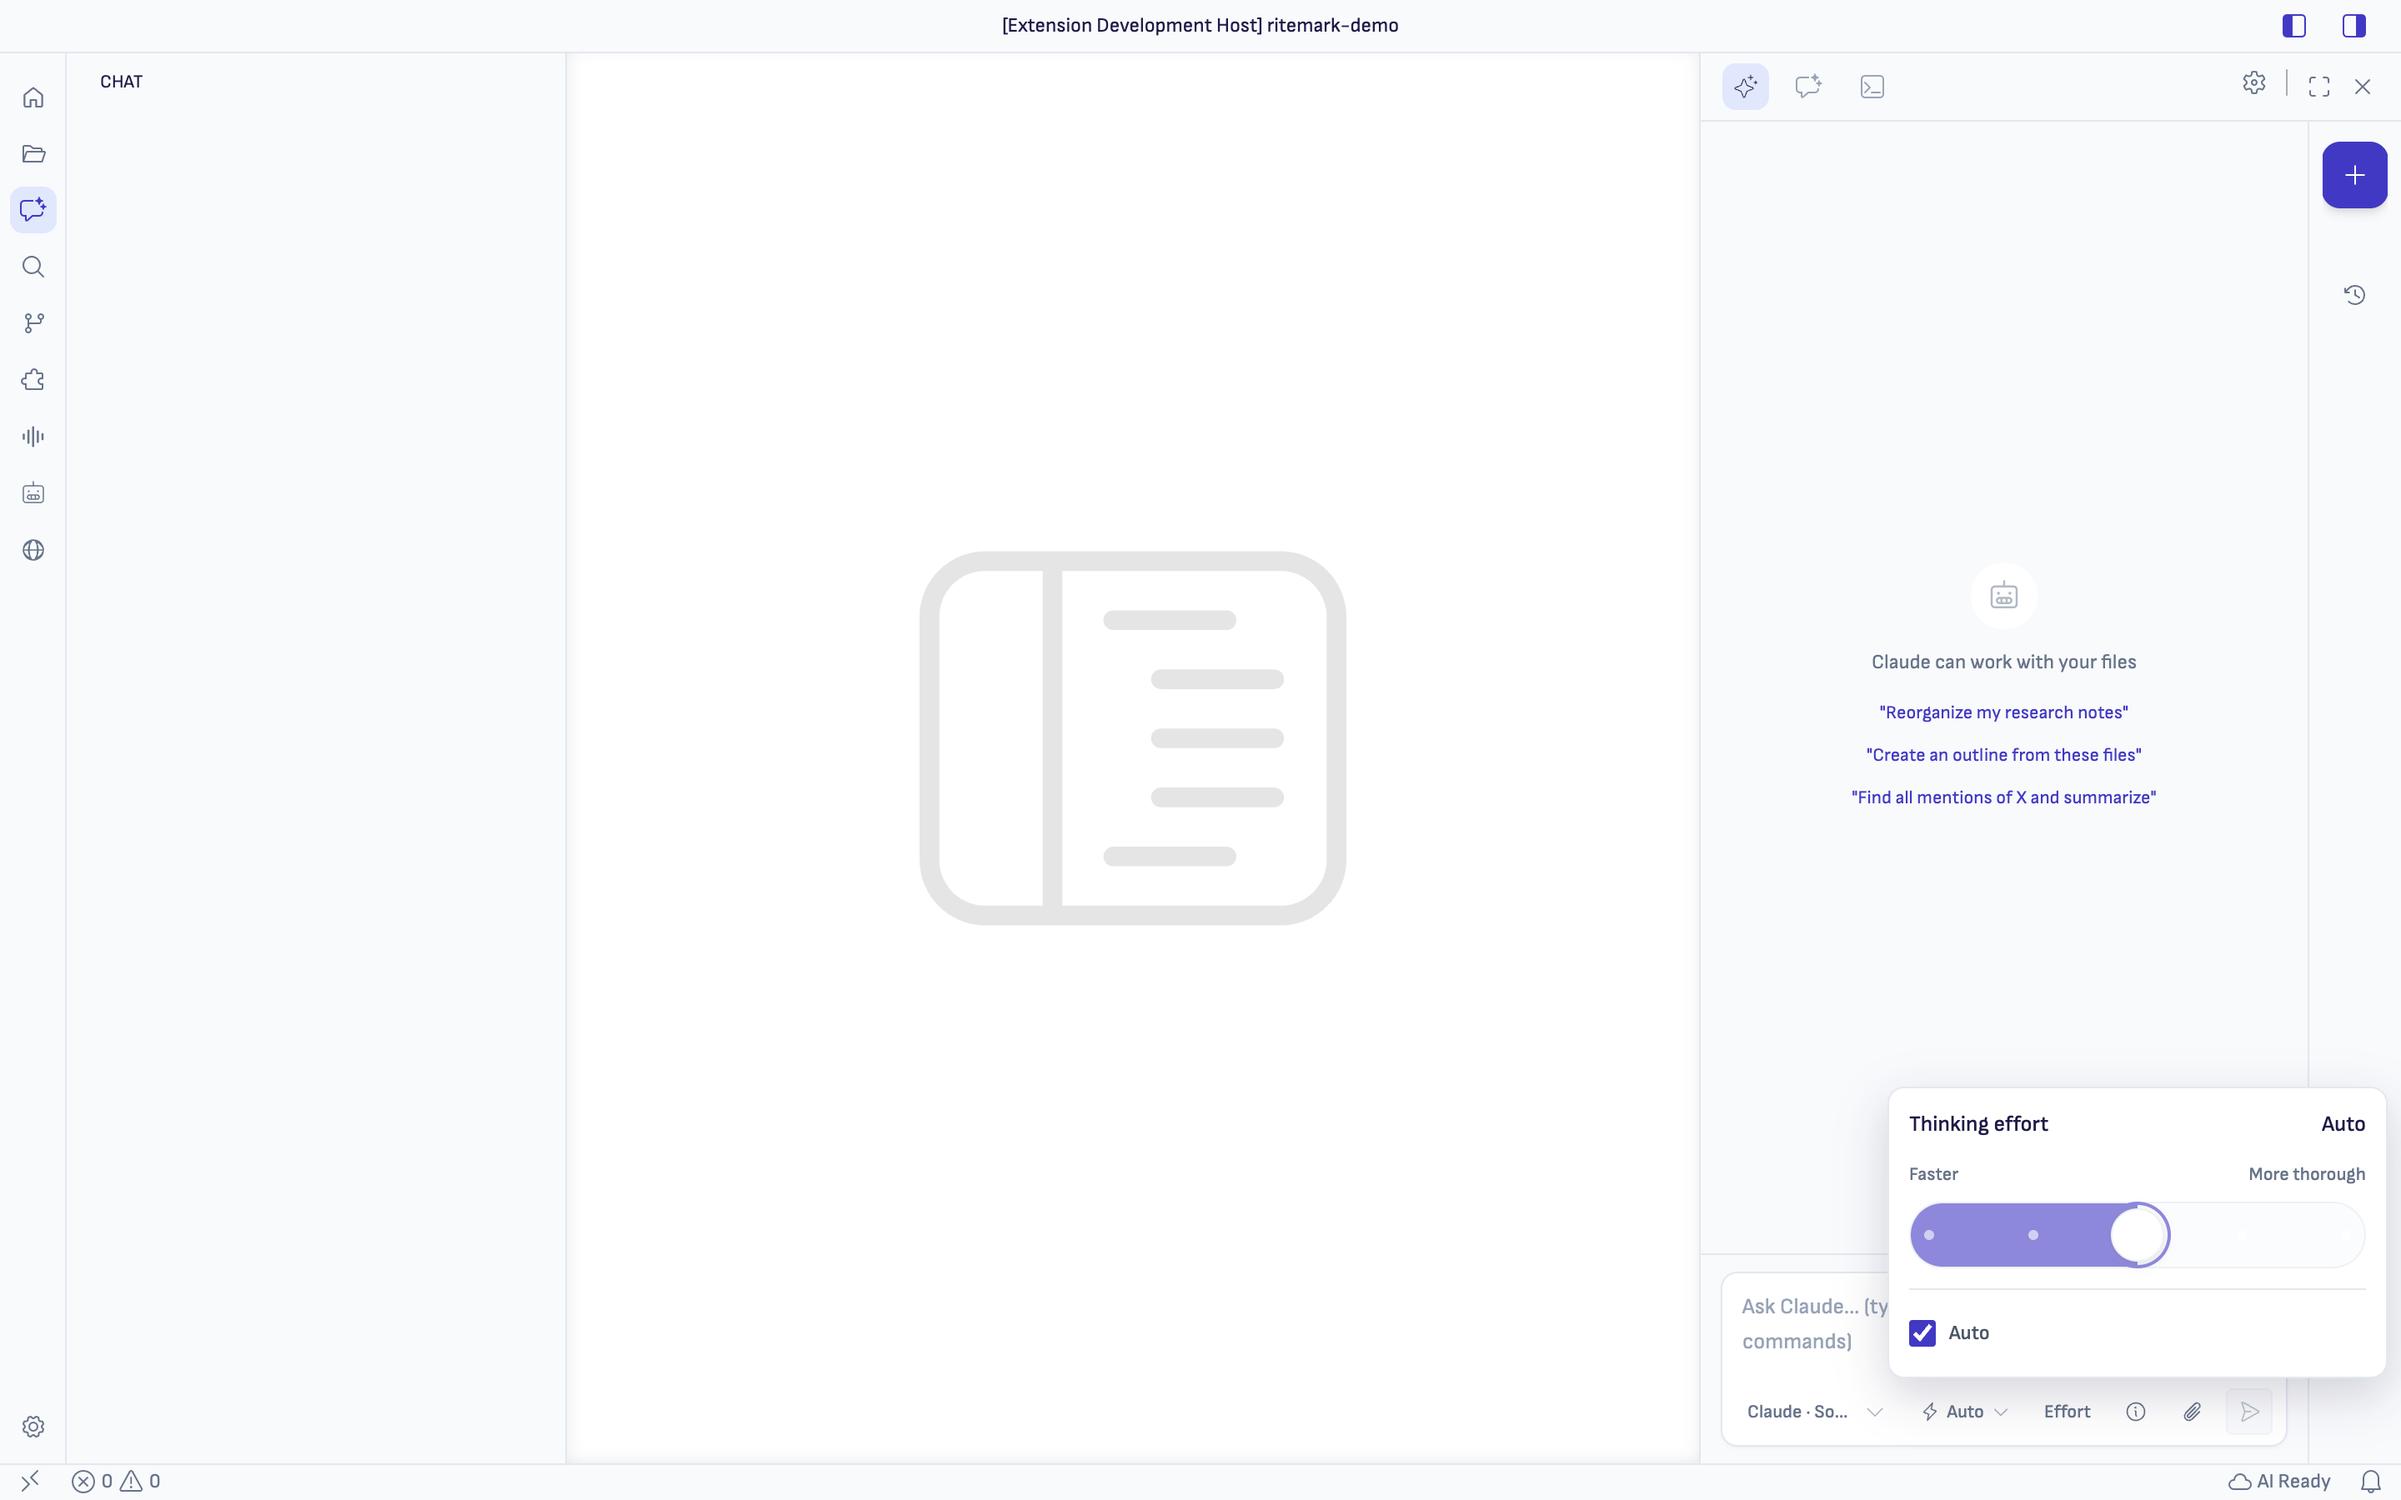
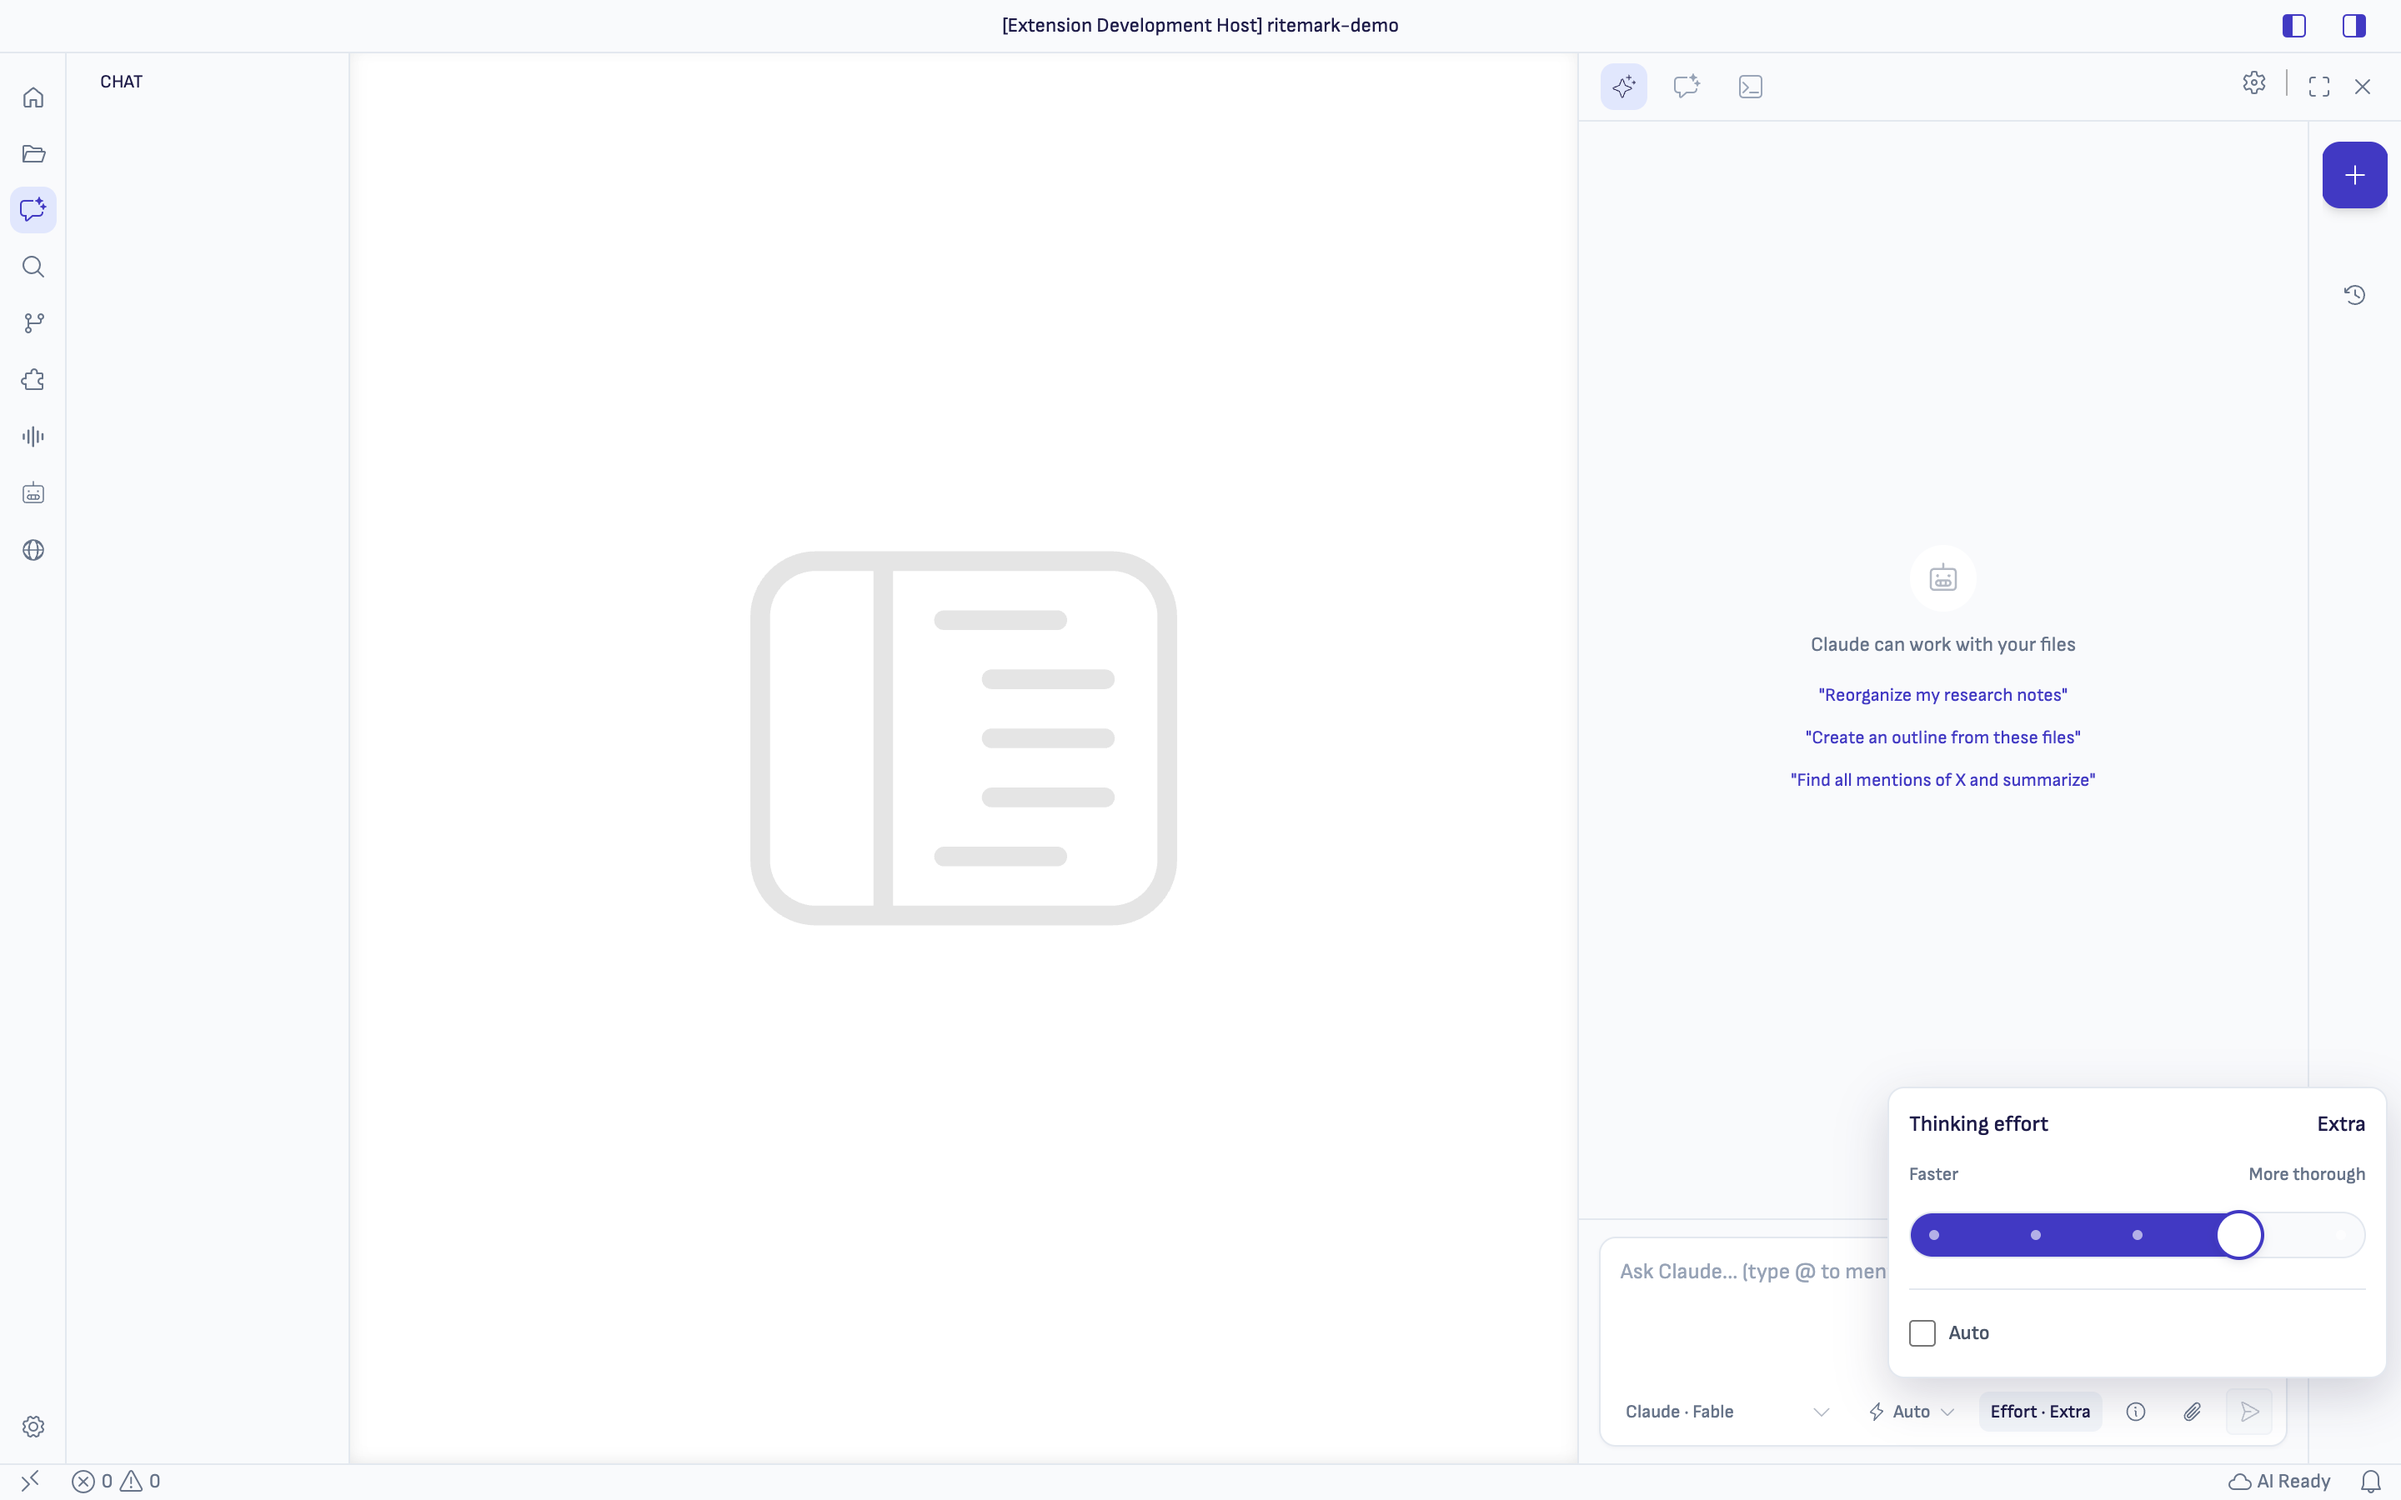
docs: record final thinking effort polish

diff --git a/docs/development/releases/v1.10.0/release-plan.md b/docs/development/releases/v1.10.0/release-plan.md
@@ -1,6 +1,6 @@
 # Release Plan — v1.10.0 Durable Agent Conversations
 
-**Status:** In development — Sprints 109–111 are merged; Sprint 111 refreshed and verified the exact Claude, Codex, OpenCode, and protocol SDK pins through [PR #214](https://github.com/ProductoryHQ/ritemark-native/pull/214); Sprint 112 implementation, approved RunDev design validation, focused regression matrix, code review, and official QA are complete; native Windows remains at the v1.10 candidate gate<br>
+**Status:** In development — Sprints 109–111 are merged; Sprint 111 refreshed and verified the exact Claude, Codex, OpenCode, and protocol SDK pins through [PR #214](https://github.com/ProductoryHQ/ritemark-native/pull/214); Sprint 112 implementation, approved RunDev design validation, focused regression matrix, and official QA are complete, with final endpoint polish in [PR #220](https://github.com/ProductoryHQ/ritemark-native/pull/220) review; native Windows remains at the v1.10 candidate gate<br>
 **Target:** v1.10.0<br>
 **GitHub milestone:** [v1.10.0](https://github.com/ProductoryHQ/ritemark-native/milestone/8) — created 2026-08-21<br>
 **Release type:** Full app distribution with extension-scoped implementation; deliberately not an `1.9.0-ext.N` lane<br>
@@ -74,7 +74,7 @@ The release does not ship after the persistence sprint alone. Sprint 109 establi
 | [Sprint 109 — Durable Chat History](./sprint-109-durable-chat-history/sprint-plan.md) | [#205](https://github.com/ProductoryHQ/ritemark-native/issues/205) | Closed | `codex/sprint-109-durable-chat-history` | [#209](https://github.com/ProductoryHQ/ritemark-native/pull/209), [#210](https://github.com/ProductoryHQ/ritemark-native/pull/210) | PR #209 merged; final polish through PR #210 | Focused tests, compile/typecheck/build, official QA, and macOS `ritemark-demo` visual/accessibility evidence pass; native Windows retained at release candidate gate | Changelog, checklist, and three screenshots drafted | Final QA and approved rail-pin polish complete 2026-08-23 |
 | [Sprint 110 — Agent Conversation Resume](./sprint-110-agent-conversation-resume/sprint-plan.md) | [#204](https://github.com/ProductoryHQ/ritemark-native/issues/204) | Closed | `codex/sprint-110-agent-conversation-resume` | [#211](https://github.com/ProductoryHQ/ritemark-native/pull/211) | Merged as `64cfd8a`; authenticated runtime-upgrade/failure-injection checks remain in the final release matrix | Native adapters, bounded fallback, dispatch receipts, immediate draft-safe handoff with one inline boundary, fresh-profile cutover, Claude → Codex recall, restart canary, independent review, and official QA pass | v1.10.0 release notes, checklist, and exactly three final-state screenshots complete | Complete 2026-08-23 |
 | [Sprint 111 — Agent Runtime Refresh](./sprint-111-agent-runtime-refresh/sprint-plan.md) | [#207](https://github.com/ProductoryHQ/ritemark-native/issues/207) | Closes with PR | `codex/sprint-111-agent-runtime-refresh` | [#214](https://github.com/ProductoryHQ/ritemark-native/pull/214) | Ready to merge; full signed installers remain release gates | Exact 9-artifact gate, deterministic suite, official QA, arm64 behavior, native Intel/Windows matrix, code review, and release preflight pass | Runtime refresh section complete | Complete 2026-08-24 |
-| [Sprint 112 — Composer Thinking Effort](./sprint-112-composer-thinking-effort/sprint-plan.md) | [#206](https://github.com/ProductoryHQ/ritemark-native/issues/206) | Done | `codex/sprint-112-composer-thinking-effort` + polish branches | [#215](https://github.com/ProductoryHQ/ritemark-native/pull/215), [#216](https://github.com/ProductoryHQ/ritemark-native/pull/216), [#219](https://github.com/ProductoryHQ/ritemark-native/pull/219) | Merged; final visual polish in review | Exact-pin capability probes, all-level adapter matrix, conversation regressions, live RunDev matrix, code review, and official QA pass | User docs, release notes, checklist, and one release screenshot complete | Complete 2026-08-24 |
+| [Sprint 112 — Composer Thinking Effort](./sprint-112-composer-thinking-effort/sprint-plan.md) | [#206](https://github.com/ProductoryHQ/ritemark-native/issues/206) | Done | `codex/sprint-112-composer-thinking-effort` + polish branches | [#215](https://github.com/ProductoryHQ/ritemark-native/pull/215), [#216](https://github.com/ProductoryHQ/ritemark-native/pull/216), [#219](https://github.com/ProductoryHQ/ritemark-native/pull/219), [#220](https://github.com/ProductoryHQ/ritemark-native/pull/220) | Core merged; final endpoint polish in PR #220 review | Exact-pin capability probes, all-level adapter matrix, conversation regressions, live RunDev matrix, code review, and official QA pass | User docs, release notes, checklist, and refreshed final-state release screenshot complete | Complete pending PR #220 review/merge |
 
 ## Feature-Complete Definition
 

diff --git a/docs/development/releases/v1.10.0/sprint-112-composer-thinking-effort/sprint-plan.md b/docs/development/releases/v1.10.0/sprint-112-composer-thinking-effort/sprint-plan.md
@@ -1,11 +1,11 @@
 # Sprint 112 — Composer Thinking Effort
 
 **Track:** Full SDD, audit-first<br>
-**Status:** Complete — ready for PR/merge<br>
+**Status:** Complete — final endpoint polish in PR review<br>
 **Branch:** `codex/sprint-112-composer-thinking-effort`<br>
 **Worktree:** `.worktrees/sprint-112-composer-thinking-effort`<br>
 **Issue:** [#206](https://github.com/ProductoryHQ/ritemark-native/issues/206)<br>
-**PRs:** [#215](https://github.com/ProductoryHQ/ritemark-native/pull/215), [#216](https://github.com/ProductoryHQ/ritemark-native/pull/216), [#219](https://github.com/ProductoryHQ/ritemark-native/pull/219)<br>
+**PRs:** [#215](https://github.com/ProductoryHQ/ritemark-native/pull/215), [#216](https://github.com/ProductoryHQ/ritemark-native/pull/216), [#219](https://github.com/ProductoryHQ/ritemark-native/pull/219), [#220](https://github.com/ProductoryHQ/ritemark-native/pull/220)<br>
 **Release:** [v1.10.0](../release-plan.md)
 
 ## Goal
@@ -92,6 +92,7 @@ Thinking effort crosses Composer UX, durable conversation state, queue semantics
 - Independent risk-first review found and fixed three contained issues before close: explicit live Auto-only capability precedence, stale-turn callback isolation, and cross-conversation notice isolation. No P0–P3 findings remain.
 - The post-merge Codex review identified four follow-up defects now covered by regression tests: rapid range writes are atomic, queued turns no longer overwrite the current draft effort, Codex model IDs are centralized, and rejected warm Claude overrides reset to Auto without dropping the accepted message.
 - Review-polish RunDev confirms the approved control at a compact 28 px visible track/26 px thumb while retaining a 40 px native drag target; the filled track and stop geometry follow the real thumb centers, forming one continuous indigo envelope around the thumb at both endpoints.
+- Final user-approved endpoint polish places the thumb's 2 px accent-ring edge flush with the visual track at Low and Max, extends non-maximum progress 8 px beyond the thumb center, and refreshes the single Sprint 112 release screenshot from the final live bundle.
 - The broad legacy `npm test` command still reaches the pre-existing bare-Node Claude Flow integration harness failure where `AgentRunner` transitively resolves `vscode`; the same import chain exists on `origin/main`. Sprint 112’s official QA and every affected focused suite pass.
 
 ## Product Decisions
@@ -110,6 +111,7 @@ Thinking effort crosses Composer UX, durable conversation state, queue semantics
 | 2026-08-24 | Preserve OpenCode lazy discovery | ACP `thought_level` is session-local; opening or selecting a conversation still performs no runtime work. |
 | 2026-08-24 | Phase 0 design and capability contract approved | Approved the compact native range control, Auto below the scale, capability-filtered Ultra, warm-Auto restoration, and honest OpenCode lazy behavior. |
 | 2026-08-24 | Require a review-polish PR after the delayed Codex review | The original PR merged before the bot review arrived; all four findings and final visual feedback are handled on a dedicated follow-up that must receive fresh Codex review before merge. |
+| 2026-08-24 | Approve final slider endpoint geometry | The thumb itself forms the visual Low/Max endpoint; intermediate progress extends 8 px behind the thumb center, while Max remains flush with the right track edge. |
 
 ## Planning Approval
 
